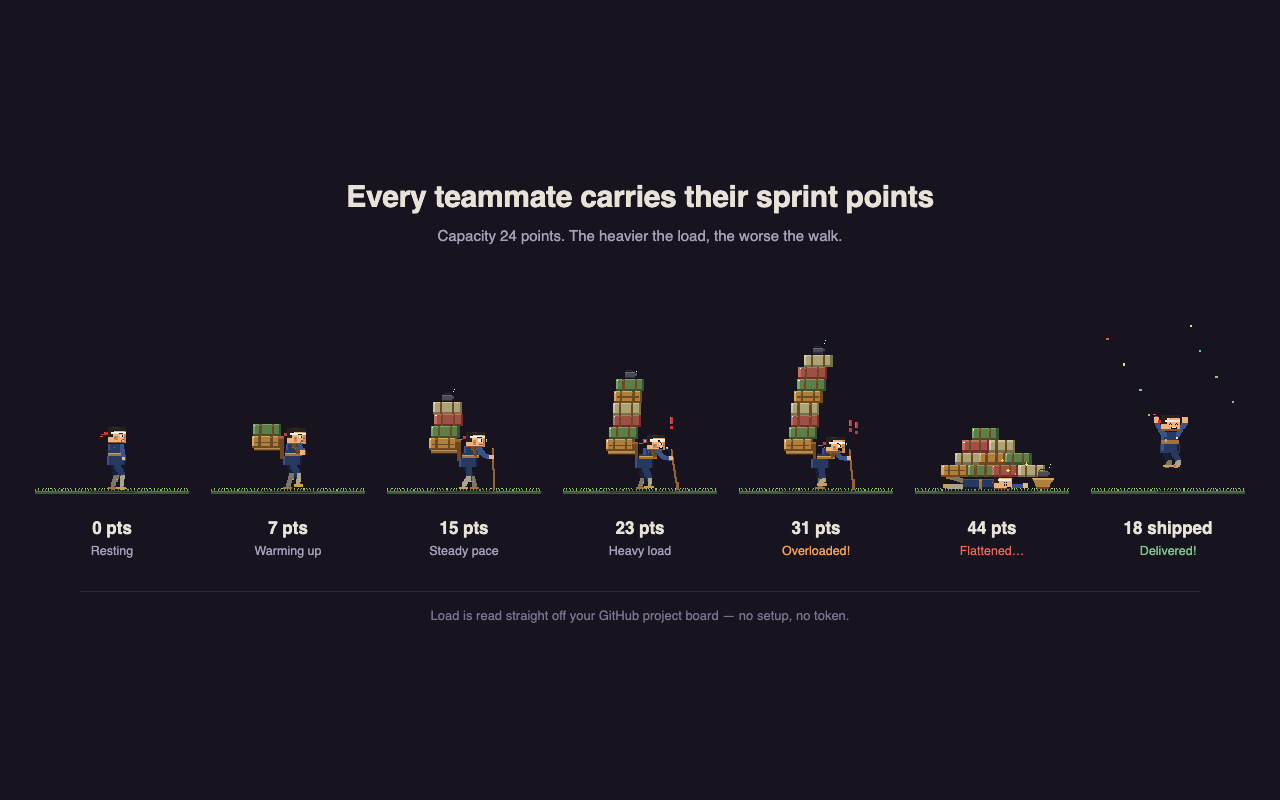
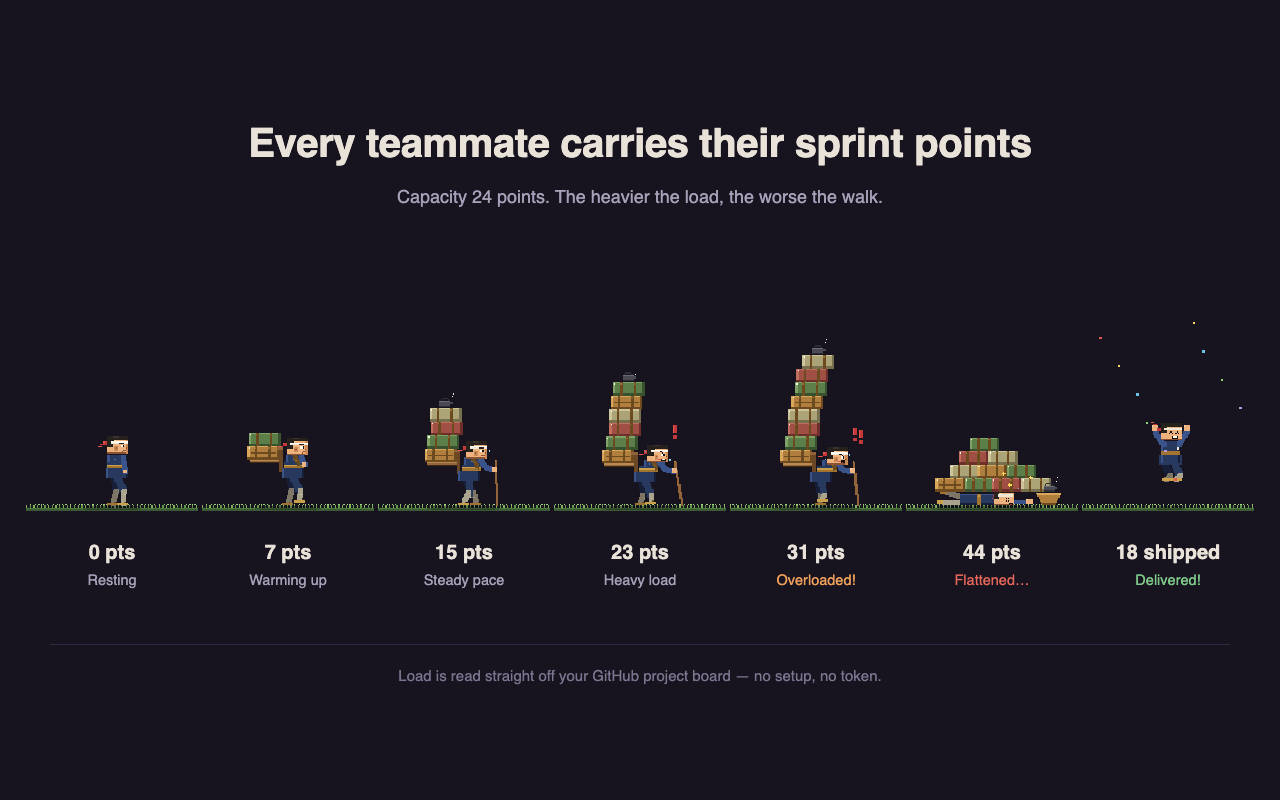
chore: retune the load-ladder screenshot
The 1280x800 frame was carrying roughly 350px of dead vertical space and type
too small to read at the size a store card is actually seen. Scale the cells to
span the full width, and size the headings to match.

diff --git a/test/shots-states.html b/test/shots-states.html
@@ -14,18 +14,20 @@
     display: flex; flex-direction: column; align-items: center;
     justify-content: center; overflow: hidden;
   }
-  h1 { margin: 0 0 6px; font-size: 30px; font-weight: 600; letter-spacing: -.01em; }
-  p.sub { margin: 0 0 34px; color: #a89fb8; font-size: 15px; }
-  .ladder { display: flex; align-items: flex-end; gap: 8px; }
-  .cell { text-align: center; width: 168px; }
-  canvas { image-rendering: pixelated; width: 154px; height: 220px; display: block; margin: 0 auto; }
-  .pts { margin-top: 14px; font-size: 17px; font-weight: 600; font-variant-numeric: tabular-nums; }
-  .state { font-size: 12.5px; color: #a89fb8; margin-top: 1px; }
+  /* sized so the seven cells span nearly the full 1280 and the composition
+     fills the 800px frame — a store card is mostly read at thumbnail size */
+  h1 { margin: 0 0 10px; font-size: 40px; font-weight: 600; letter-spacing: -.01em; }
+  p.sub { margin: 0 0 64px; color: #a89fb8; font-size: 18px; }
+  .ladder { display: flex; align-items: flex-end; gap: 4px; }
+  .cell { text-align: center; width: 172px; }
+  canvas { image-rendering: pixelated; width: 172px; height: 246px; display: block; margin: 0 auto; }
+  .pts { margin-top: 18px; font-size: 20px; font-weight: 600; font-variant-numeric: tabular-nums; }
+  .state { font-size: 14.5px; color: #a89fb8; margin-top: 2px; }
   .cell.over .state { color: #f0a05a; }
   .cell.flat .state { color: #e8685a; }
   .cell.done .state { color: #7fc98a; }
-  .rule { width: 1120px; height: 1px; background: #2e2740; margin: 30px 0 0; }
-  .foot { margin-top: 14px; font-size: 13px; color: #7d7490; }
+  .rule { width: 1180px; height: 1px; background: #2e2740; margin: 52px 0 0; }
+  .foot { margin-top: 20px; font-size: 15px; color: #7d7490; }
 </style>
 </head>
 <body>
